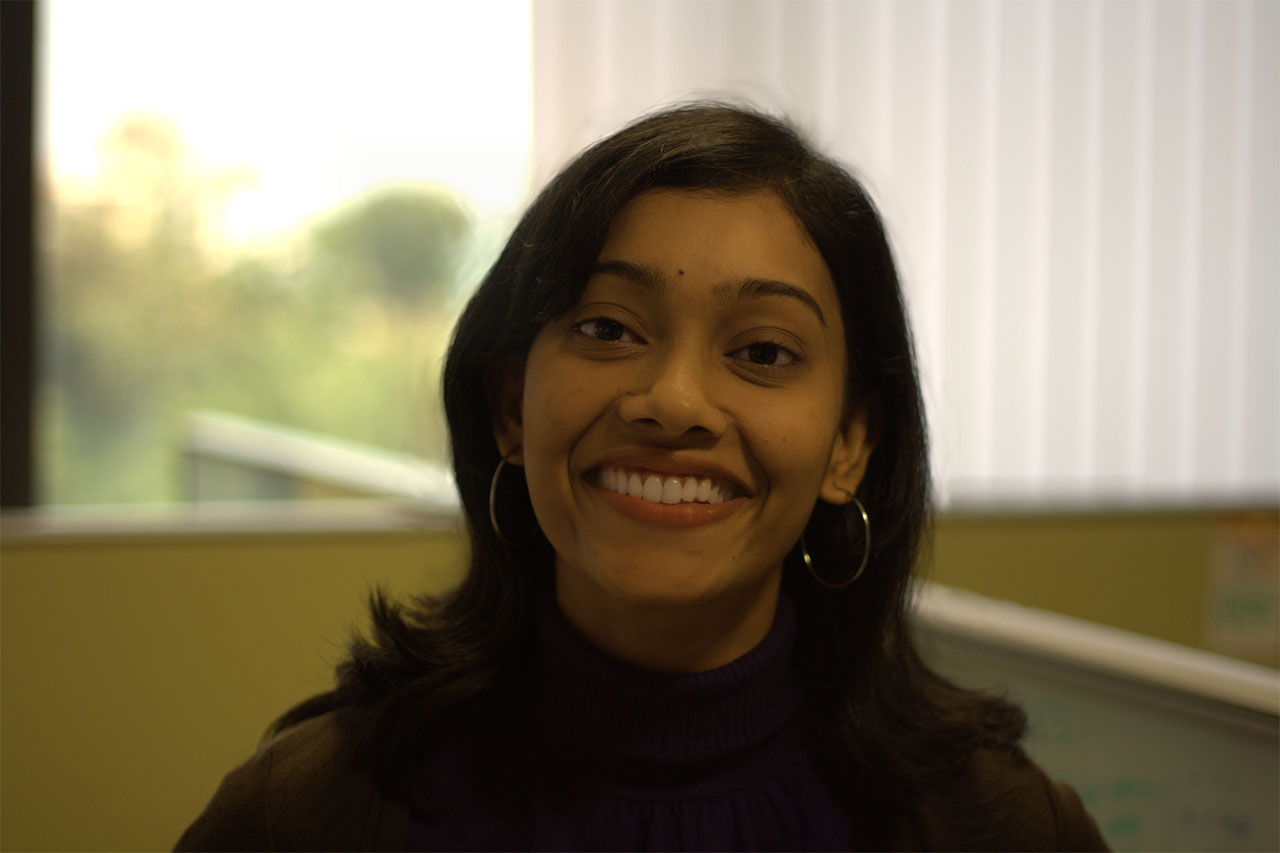
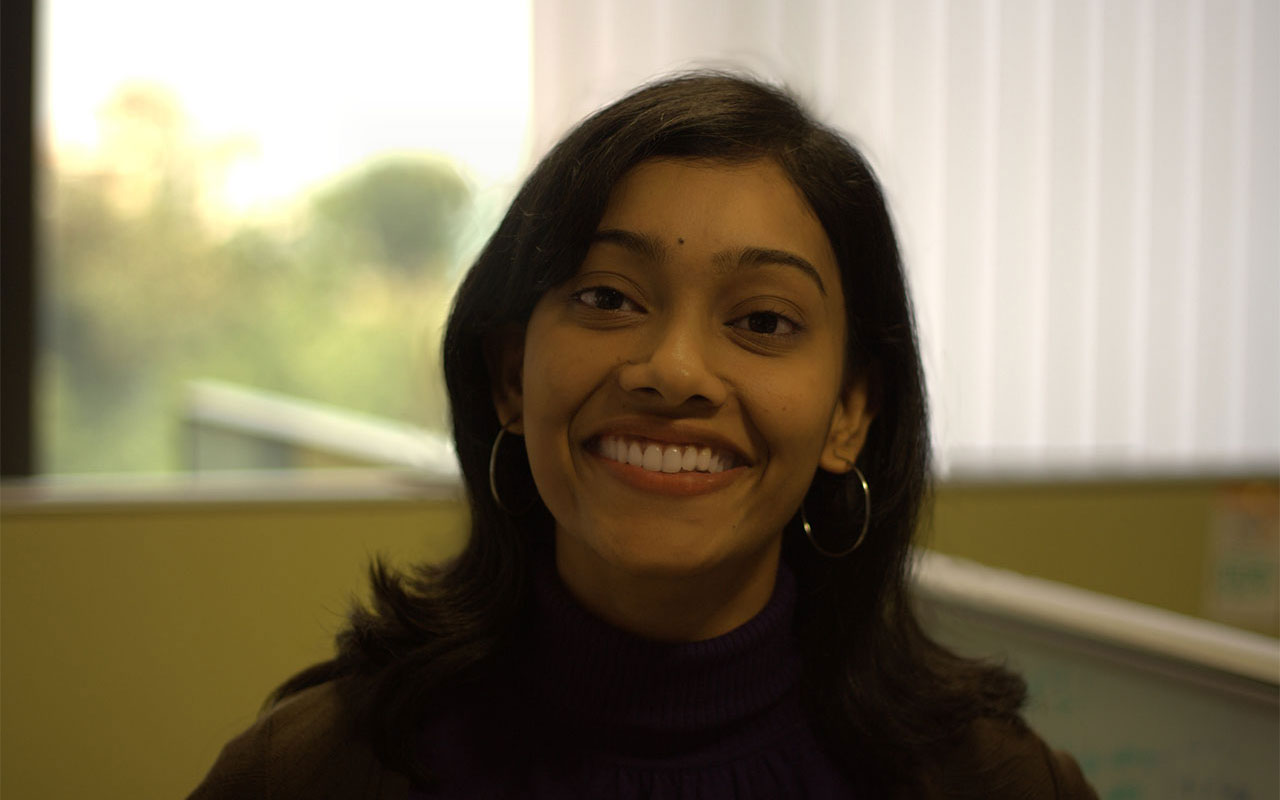
Add backstretch jQuery plugin to resize header image and related styles and JS

diff --git a/js/jquery.backstretch.min.js b/js/jquery.backstretch.min.js
@@ -1,0 +1,4 @@
+/*! Backstretch - v2.0.4 - 2013-06-19
+* http://srobbin.com/jquery-plugins/backstretch/
+* Copyright (c) 2013 Scott Robbin; Licensed MIT */
+(function(a,d,p){a.fn.backstretch=function(c,b){(c===p||0===c.length)&&a.error("No images were supplied for Backstretch");0===a(d).scrollTop()&&d.scrollTo(0,0);return this.each(function(){var d=a(this),g=d.data("backstretch");if(g){if("string"==typeof c&&"function"==typeof g[c]){g[c](b);return}b=a.extend(g.options,b);g.destroy(!0)}g=new q(this,c,b);d.data("backstretch",g)})};a.backstretch=function(c,b){return a("body").backstretch(c,b).data("backstretch")};a.expr[":"].backstretch=function(c){return a(c).data("backstretch")!==p};a.fn.backstretch.defaults={centeredX:!0,centeredY:!0,duration:5E3,fade:0};var r={left:0,top:0,overflow:"hidden",margin:0,padding:0,height:"100%",width:"100%",zIndex:-999999},s={position:"absolute",display:"none",margin:0,padding:0,border:"none",width:"auto",height:"auto",maxHeight:"none",maxWidth:"none",zIndex:-999999},q=function(c,b,e){this.options=a.extend({},a.fn.backstretch.defaults,e||{});this.images=a.isArray(b)?b:[b];a.each(this.images,function(){a("<img />")[0].src=this});this.isBody=c===document.body;this.$container=a(c);this.$root=this.isBody?l?a(d):a(document):this.$container;c=this.$container.children(".backstretch").first();this.$wrap=c.length?c:a('<div class="backstretch"></div>').css(r).appendTo(this.$container);this.isBody||(c=this.$container.css("position"),b=this.$container.css("zIndex"),this.$container.css({position:"static"===c?"relative":c,zIndex:"auto"===b?0:b,background:"none"}),this.$wrap.css({zIndex:-999998}));this.$wrap.css({position:this.isBody&&l?"fixed":"absolute"});this.index=0;this.show(this.index);a(d).on("resize.backstretch",a.proxy(this.resize,this)).on("orientationchange.backstretch",a.proxy(function(){this.isBody&&0===d.pageYOffset&&(d.scrollTo(0,1),this.resize())},this))};q.prototype={resize:function(){try{var a={left:0,top:0},b=this.isBody?this.$root.width():this.$root.innerWidth(),e=b,g=this.isBody?d.innerHeight?d.innerHeight:this.$root.height():this.$root.innerHeight(),j=e/this.$img.data("ratio"),f;j>=g?(f=(j-g)/2,this.options.centeredY&&(a.top="-"+f+"px")):(j=g,e=j*this.$img.data("ratio"),f=(e-b)/2,this.options.centeredX&&(a.left="-"+f+"px"));this.$wrap.css({width:b,height:g}).find("img:not(.deleteable)").css({width:e,height:j}).css(a)}catch(h){}return this},show:function(c){if(!(Math.abs(c)>this.images.length-1)){var b=this,e=b.$wrap.find("img").addClass("deleteable"),d={relatedTarget:b.$container[0]};b.$container.trigger(a.Event("backstretch.before",d),[b,c]);this.index=c;clearInterval(b.interval);b.$img=a("<img />").css(s).bind("load",function(f){var h=this.width||a(f.target).width();f=this.height||a(f.target).height();a(this).data("ratio",h/f);a(this).fadeIn(b.options.speed||b.options.fade,function(){e.remove();b.paused||b.cycle();a(["after","show"]).each(function(){b.$container.trigger(a.Event("backstretch."+this,d),[b,c])})});b.resize()}).appendTo(b.$wrap);b.$img.attr("src",b.images[c]);return b}},next:function(){return this.show(this.index<this.images.length-1?this.index+1:0)},prev:function(){return this.show(0===this.index?this.images.length-1:this.index-1)},pause:function(){this.paused=!0;return this},resume:function(){this.paused=!1;this.next();return this},cycle:function(){1<this.images.length&&(clearInterval(this.interval),this.interval=setInterval(a.proxy(function(){this.paused||this.next()},this),this.options.duration));return this},destroy:function(c){a(d).off("resize.backstretch orientationchange.backstretch");clearInterval(this.interval);c||this.$wrap.remove();this.$container.removeData("backstretch")}};var l,f=navigator.userAgent,m=navigator.platform,e=f.match(/AppleWebKit\/([0-9]+)/),e=!!e&&e[1],h=f.match(/Fennec\/([0-9]+)/),h=!!h&&h[1],n=f.match(/Opera Mobi\/([0-9]+)/),t=!!n&&n[1],k=f.match(/MSIE ([0-9]+)/),k=!!k&&k[1];l=!((-1<m.indexOf("iPhone")||-1<m.indexOf("iPad")||-1<m.indexOf("iPod"))&&e&&534>e||d.operamini&&"[object OperaMini]"==={}.toString.call(d.operamini)||n&&7458>t||-1<f.indexOf("Android")&&e&&533>e||h&&6>h||"palmGetResource"in d&&e&&534>e||-1<f.indexOf("MeeGo")&&-1<f.indexOf("NokiaBrowser/8.5.0")||k&&6>=k)})(jQuery,window);

diff --git a/stylesheets/app.css b/stylesheets/app.css
@@ -8060,47 +8060,44 @@ th.hide-for-touch {
 /* line 3, ../scss/_common.scss */
 .hero-unit-wrapper {
   position: relative;
-  /* position: absolute; */
-  /* height: 100%; */
-  /* weight: 100%; */
 }
 
-/* line 10, ../scss/_common.scss */
+/* line 7, ../scss/_common.scss */
 .intro-block {
   background-color: rgba(253, 254, 253, 0.2);
   width: 100%;
   position: absolute;
   bottom: 0;
 }
-/* line 15, ../scss/_common.scss */
+/* line 12, ../scss/_common.scss */
 .intro-block hr {
   border: 0;
   border-top: 1px solid #210b02;
 }
-/* line 18, ../scss/_common.scss */
+/* line 15, ../scss/_common.scss */
 .intro-block hr.full {
   width: 100%;
 }
-/* line 21, ../scss/_common.scss */
+/* line 18, ../scss/_common.scss */
 .intro-block hr.part {
   width: 65%;
 }
-/* line 25, ../scss/_common.scss */
+/* line 22, ../scss/_common.scss */
 .intro-block .header {
   color: #210b02;
   font-family: "Abril Fatface", cursive;
 }
-/* line 29, ../scss/_common.scss */
+/* line 26, ../scss/_common.scss */
 .intro-block .sub-header {
   color: #fff;
   font-family: "Karla", sans-serif;
   text-transform: uppercase;
 }
-/* line 33, ../scss/_common.scss */
+/* line 30, ../scss/_common.scss */
 .intro-block .sub-header .separator {
   font-family: "Abril Fatface", cursive;
 }
-/* line 37, ../scss/_common.scss */
+/* line 34, ../scss/_common.scss */
 .intro-block .details {
   text-align: center;
 }

diff --git a/index.html b/index.html
@@ -10,7 +10,8 @@
   </head>
   <body>
     <div class="hero-unit-wrapper">
-      <image width="100%" src="images/me.jpg"></image>
+      <div class="mainImage">
+      </div>
       <div class="intro-block">
         <div class="row">
           <div class="large-4 columns">
@@ -30,7 +31,6 @@
         </div>
       </div>
     </div>
-    <!-- <div min-width="100%" height="100%" style="background-size: cover; background-image: url('images/me.jpg')"> </div> -->
     <div class="row">
       <div class="large-6 columns">
         <h3>About me</h3>
@@ -198,5 +198,6 @@
     <script src="bower_components/jquery/dist/jquery.min.js"></script>
     <script src="bower_components/foundation/js/foundation.min.js"></script>
     <script src="js/app.js"></script>
+    <script src="js/jquery.backstretch.min.js"></script>
   </body>
 </html>

diff --git a/js/app.js b/js/app.js
@@ -1,3 +1,19 @@
 // Foundation JavaScript
 // Documentation can be found at: http://foundation.zurb.com/docs
-$(document).foundation();
+// $(document).foundation();
+
+/* Author: Sumit Paul */
+jQuery(document).ready(function(e) {
+    var w = e(window).width(),
+        h = e(window).height(),
+        img = e(".mainImage");
+
+    e(window).resize(function() {
+        w = e(window).width();
+        h = e(window).height();
+        img.css("width", w);
+        img.css("height", h);
+    }).resize();
+
+  $(".mainImage").backstretch("images/me.jpg");
+});

diff --git a/scss/_common.scss b/scss/_common.scss
@@ -2,9 +2,6 @@
 
 .hero-unit-wrapper {
     position: relative;
-    /* position: absolute; */
-    /* height: 100%; */
-    /* weight: 100%; */
 }
 
 .intro-block {
